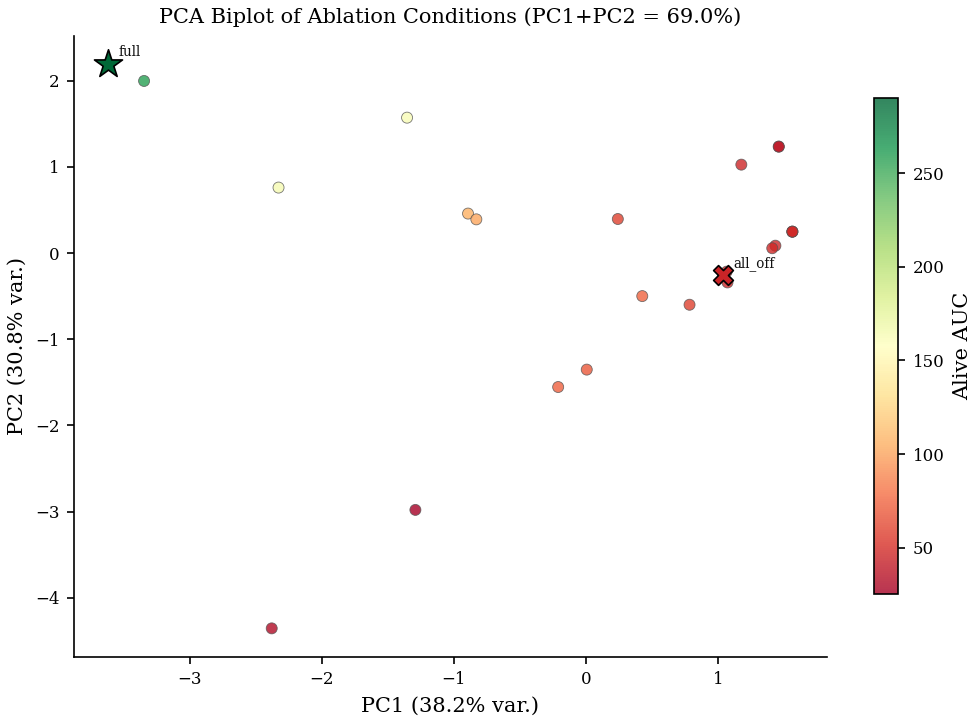
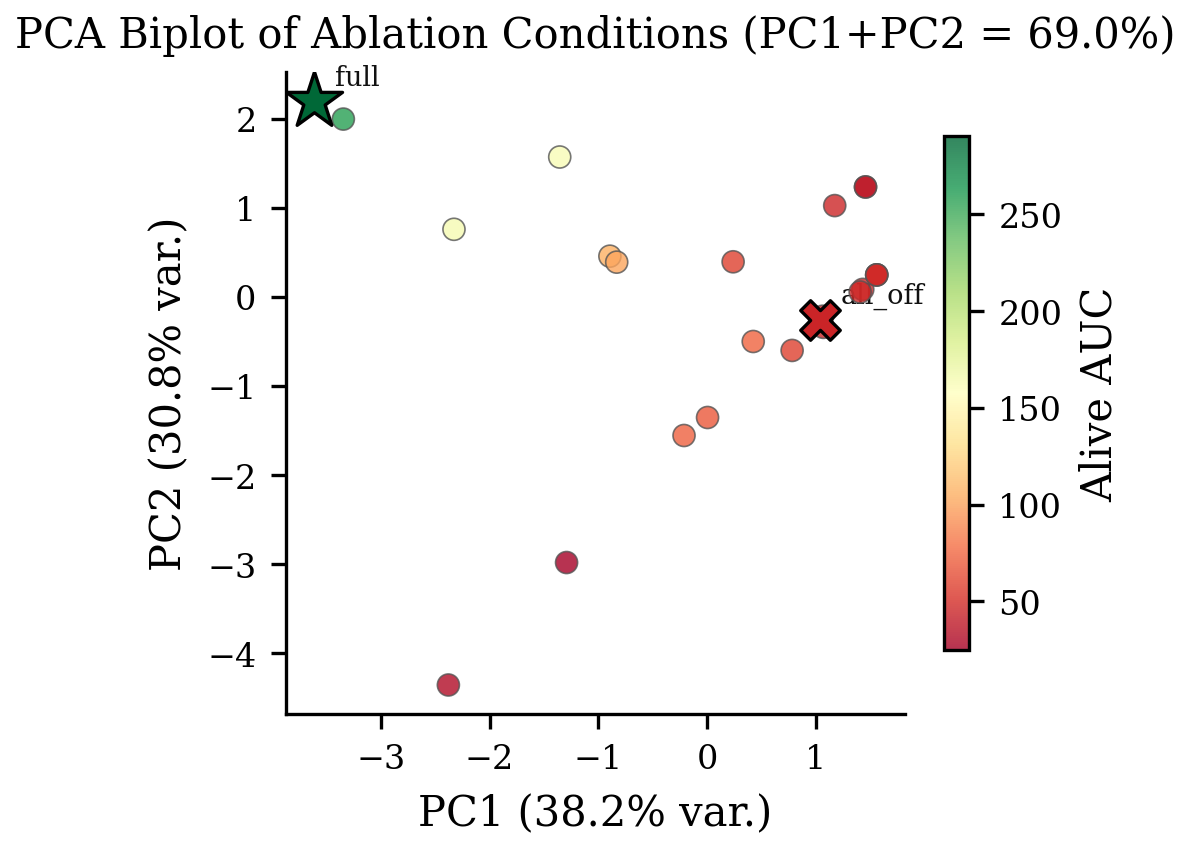
fix: resize figures for single-column layout and split combined figures
Figures 1-2: shrink from double-column (figure*) to single-column (figure),
reduce figsize to ~3.5in, scale fonts proportionally.
Figure 2: move legend from upper right to upper left to avoid line overlap.
Figures 4-5: split each two-subfigure figure into dedicated single figures
(now Figs 4-8), increase DPI from 150 to 300 for readability.
Update all cross-references.

diff --git a/paper/main.tex b/paper/main.tex
@@ -183,15 +183,15 @@ units) containing a diffusing resource field.
 The inner layer consists of 10--50 \emph{organisms}, each composed of 10--50
 \emph{swarm agents} that collectively maintain the organism's spatial boundary.
 
-\begin{figure*}[t]
+\begin{figure}[t]
 \centering
-\includegraphics[width=\textwidth]{figures/fig_architecture.pdf}
+\includegraphics[width=\columnwidth]{figures/fig_architecture.pdf}
 \caption{Two-layer architecture. Each organism comprises swarm agents maintaining
 a spatial boundary, a neural-network controller, a graph-based metabolic network,
 and a fixed 256-float genome organized into seven segments encoding all criteria. Organisms inhabit a
 continuous toroidal environment with a diffusing resource field.}
 \label{fig:arch}
-\end{figure*}
+\end{figure}
 
 \subsection{Seven Criteria}
 
@@ -319,9 +319,9 @@ Reproduction-ablated organisms live longer individually (median 751 vs.\ 242
 steps) despite population collapse, confirming absent replacement rather than
 individual fragility (per-seed distributions in §S3).
 
-\begin{figure*}[t]
+\begin{figure}[t]
 \centering
-\includegraphics[width=\textwidth]{figures/fig_timeseries.pdf}
+\includegraphics[width=\columnwidth]{figures/fig_timeseries.pdf}
 \caption{Population dynamics under criterion ablation. Lines show mean alive
 count across 30 seeds (100--129); shaded bands show $\pm$1 SEM. Normal
 baseline (thick black) stabilizes near 349 organisms by step~1900. Removing reproduction,
@@ -329,7 +329,7 @@ response, or metabolism causes $>$86\% population collapse. Evolution ablation
 shows a modest 8\% decline (Cliff's $\delta$=0.39), consistent with optimization
 rather than short-term survival necessity.}
 \label{fig:timeseries}
-\end{figure*}
+\end{figure}
 
 \paragraph{Quantitative coupling evidence.}
 Granger-style lagged F-tests (lags 1--5, within-seed Holm correction) show
@@ -450,7 +450,7 @@ evolution (0.374) and growth (0.492) rank lowest (Figure~\ref{fig:crit_stability
 No criterion clears 0.60 under LASSO (maximum: metabolism=0.53).
 PCA requires 4 components for 93\% variance (PC1=38\%, PC2=31\%);
 the biplot shows full-criteria and all-off at opposite poles
-(Figure~\ref{fig:pca_reduction}).
+(Figures~\ref{fig:pca_biplot} and~\ref{fig:crit_pareto}).
 Forward Pareto selection yields all-negative $R^2$ values, a null result at this
 sample size (Cohen's $d$=10.68 validates the sweep design, but 24 training
 conditions are insufficient for predictive modeling).
@@ -459,33 +459,43 @@ Enet stability rankings serve only as exploratory prioritization for Phase~2.
 \begin{figure}[t]
 \centering
 \IfFileExists{../figures/reduction/fig_criterion_stability.png}%
-  {\includegraphics[width=0.48\columnwidth]{../figures/reduction/fig_criterion_stability.png}}%
-  {\fbox{\parbox{0.45\columnwidth}{\centering\vspace{2em}[fig\_crit\_stability]\vspace{2em}}}}%
-\hfill%
-\IfFileExists{../figures/reduction/fig_stability_heatmap.png}%
-  {\includegraphics[width=0.48\columnwidth]{../figures/reduction/fig_stability_heatmap.png}}%
-  {\fbox{\parbox{0.45\columnwidth}{\centering\vspace{2em}[fig\_stab\_heatmap]\vspace{2em}}}}
-\caption{Criterion stability (left; dashed=0.60; Enet ranks metabolism$>$response$>$homeostasis,
-evolution lowest) and stability heatmap (right; 7 criteria $\times$ 7 metrics, Enet).}
+  {\includegraphics[width=\columnwidth]{../figures/reduction/fig_criterion_stability.png}}%
+  {\fbox{\parbox{0.9\columnwidth}{\centering\vspace{2em}[fig\_crit\_stability]\vspace{2em}}}}
+\caption{Criterion stability (500-bootstrap Enet vs LASSO; dashed line = 0.60
+threshold). Enet ranks metabolism$>$response$>$homeostasis; evolution lowest.}
 \label{fig:crit_stability}
 \end{figure}
 
 \begin{figure}[t]
 \centering
+\IfFileExists{../figures/reduction/fig_stability_heatmap.png}%
+  {\includegraphics[width=\columnwidth]{../figures/reduction/fig_stability_heatmap.png}}%
+  {\fbox{\parbox{0.9\columnwidth}{\centering\vspace{2em}[fig\_stab\_heatmap]\vspace{2em}}}}
+\caption{Enet stability heatmap (7 criteria $\times$ 7 performance metrics).
+Cells $\geq$0.60 are marked with dashed borders. Rows sorted by mean stability.}
+\label{fig:stab_heatmap}
+\end{figure}
+
+\begin{figure}[t]
+\centering
 \IfFileExists{../figures/reduction/fig_pca_biplot.png}%
-  {\includegraphics[width=0.48\columnwidth]{../figures/reduction/fig_pca_biplot.png}}%
-  {\fbox{\parbox{0.45\columnwidth}{\centering\vspace{2em}[fig\_pca\_biplot]\vspace{2em}}}}%
-\hfill%
+  {\includegraphics[width=\columnwidth]{../figures/reduction/fig_pca_biplot.png}}%
+  {\fbox{\parbox{0.9\columnwidth}{\centering\vspace{2em}[fig\_pca\_biplot]\vspace{2em}}}}
+\caption{PCA biplot (PC1=38\%, PC2=31\%) of ablation conditions. Full-criteria
+and all-off sit at opposite poles; pairwise ablations cluster near all-off,
+reflecting multiplicative criterion interdependence.}
+\label{fig:pca_biplot}
+\end{figure}
+
+\begin{figure}[t]
+\centering
 \IfFileExists{../figures/reduction/fig_criterion_pareto.png}%
-  {\includegraphics[width=0.48\columnwidth]{../figures/reduction/fig_criterion_pareto.png}}%
-  {\fbox{\parbox{0.45\columnwidth}{\centering\vspace{2em}[fig\_crit\_pareto]\vspace{2em}}}}
-\caption{Left: PCA biplot (PC1=38\%, PC2=31\%) shows full-criteria and all-off
-at opposite poles; pairwise ablations cluster near all-off, reflecting
-multiplicative criterion interdependence.
-Right: criterion Pareto curve (note: all $R^2<0$, indicating insufficient
-statistical power for predictive modeling; underpowered); Enet stability
-rankings serve as the primary directional evidence.}
-\label{fig:pca_reduction}
+  {\includegraphics[width=\columnwidth]{../figures/reduction/fig_criterion_pareto.png}}%
+  {\fbox{\parbox{0.9\columnwidth}{\centering\vspace{2em}[fig\_crit\_pareto]\vspace{2em}}}}
+\caption{Criterion Pareto curve (Ridge, $k$=1..7). All $R^2<0$, indicating
+insufficient statistical power for predictive modeling at $n$=24 training
+conditions. Enet stability rankings serve as the primary directional evidence.}
+\label{fig:crit_pareto}
 \end{figure}
 
 % ============================================================================

diff --git a/scripts/figures/fig_architecture.py b/scripts/figures/fig_architecture.py
@@ -21,7 +21,7 @@ def _draw_environment(ax: plt.Axes) -> None:
         "Environment (Toroidal 2D, 100$\\times$100)",
         ha="center",
         va="center",
-        fontsize=10,
+        fontsize=6,
         fontweight="bold",
         color="#333333",
     )
@@ -33,7 +33,7 @@ def _draw_environment(ax: plt.Axes) -> None:
         "Resource Field",
         ha="left",
         va="center",
-        fontsize=7,
+        fontsize=4.5,
         fontstyle="italic",
         color="#666666",
     )
@@ -56,7 +56,7 @@ def _draw_organism_box(ax: plt.Axes, ox: float, oy: float) -> None:
         "Organism (10-50 per environment)",
         ha="center",
         va="center",
-        fontsize=8,
+        fontsize=5,
         fontweight="bold",
         color="#0072B2",
     )
@@ -112,7 +112,7 @@ def _draw_organism_components(ax: plt.Axes, ox: float, oy: float) -> None:
             label,
             ha="center",
             va="center",
-            fontsize=6,
+            fontsize=3.5,
             color="#333333",
         )
 
@@ -155,7 +155,7 @@ def _draw_internal_state_label(ax: plt.Axes, ox: float, oy: float) -> None:
         "Internal State Vector (homeostatic regulation)",
         ha="center",
         va="center",
-        fontsize=6,
+        fontsize=3.5,
         fontstyle="italic",
         color="#666666",
     )
@@ -178,7 +178,7 @@ def _draw_criteria_sidebar(ax: plt.Axes, sidebar_x: float) -> None:
         sidebar_x + 1.6,
         4.65,
         "7 Criteria",
-        fontsize=8,
+        fontsize=5,
         fontweight="bold",
         ha="center",
         color="#333333",
@@ -195,13 +195,13 @@ def _draw_criteria_sidebar(ax: plt.Axes, sidebar_x: float) -> None:
     ]
     for j, (label, color) in enumerate(criteria_items):
         yy = 4.25 - j * 0.47
-        ax.plot(sidebar_x + 0.3, yy, "s", color=color, markersize=5)
-        ax.text(sidebar_x + 0.55, yy, label, fontsize=6.5, color="#333333", va="center")
+        ax.plot(sidebar_x + 0.3, yy, "s", color=color, markersize=3)
+        ax.text(sidebar_x + 0.55, yy, label, fontsize=4, color="#333333", va="center")
 
 
 def generate_architecture() -> None:
     """Figure 1: Architecture diagram showing two-layer hierarchy."""
-    fig, ax = plt.subplots(figsize=(7, 4.0))
+    fig, ax = plt.subplots(figsize=(3.5, 2.0))
     ax.set_xlim(0, 10)
     ax.set_ylim(0, 6.5)
     ax.set_aspect("equal")

diff --git a/scripts/figures/fig_timeseries.py b/scripts/figures/fig_timeseries.py
@@ -18,7 +18,7 @@ def generate_timeseries(data: list[dict]) -> None:
         key = (row["condition"], int(row["step"]))
         groups[key].append(row["alive_count"])
 
-    fig, ax = plt.subplots(figsize=(7, 3.2))
+    fig, ax = plt.subplots(figsize=(3.5, 2.4))
 
     for idx, condition in enumerate(CONDITION_ORDER):
         steps = sorted({s for (c, s) in groups if c == condition})
@@ -33,7 +33,7 @@ def generate_timeseries(data: list[dict]) -> None:
         means = np.array(means)
         sems = np.array(sems)
         color = COLORS[condition]
-        lw = 2.0 if condition == "normal" else 1.2
+        lw = 1.5 if condition == "normal" else 0.8
         ls = "-" if condition == "normal" else _LINESTYLES[idx % len(_LINESTYLES)]
         marker = None if condition == "normal" else _MARKERS[idx % len(_MARKERS)]
         # Place markers every 10th data point for readability
@@ -46,7 +46,7 @@ def generate_timeseries(data: list[dict]) -> None:
             linestyle=ls,
             marker=marker,
             markevery=markevery,
-            markersize=4,
+            markersize=3,
             label=LABELS[condition],
             zorder=10 if condition == "normal" else 5,
         )
@@ -56,7 +56,7 @@ def generate_timeseries(data: list[dict]) -> None:
     ax.set_ylabel("Mean Alive Count ($n$=30)")
     ax.set_xlim(0, 2000)
     ax.set_ylim(bottom=0)
-    ax.legend(loc="upper right", ncol=2, framealpha=0.9, edgecolor="0.8")
+    ax.legend(loc="upper left", ncol=2, framealpha=0.9, edgecolor="0.8", fontsize=5)
     ax.spines["top"].set_visible(False)
     ax.spines["right"].set_visible(False)
 

diff --git a/scripts/plot_reduction_figures.py b/scripts/plot_reduction_figures.py
@@ -414,7 +414,7 @@ def _load_json(path: Path) -> dict:
         return json.load(f)
 
 
-def _save(fig: plt.Figure, path: Path, dpi: int = 150) -> None:
+def _save(fig: plt.Figure, path: Path, dpi: int = 300) -> None:
     fig.tight_layout()
     fig.savefig(path, dpi=dpi)
     plt.close(fig)
@@ -439,23 +439,23 @@ def main() -> None:
 
     FIG_DIR.mkdir(parents=True, exist_ok=True)
 
-    fig, ax = plt.subplots(figsize=(7, 3.5))
+    fig, ax = plt.subplots(figsize=(3.5, 2.5))
     plot_criterion_stability(ax, crit_data)
     _save(fig, FIG_DIR / "fig_criterion_stability.png")
 
-    fig, ax = plt.subplots(figsize=(7, 3.8))
+    fig, ax = plt.subplots(figsize=(3.5, 2.8))
     plot_criterion_pareto(ax, crit_data)
     _save(fig, FIG_DIR / "fig_criterion_pareto.png")
 
-    fig, ax = plt.subplots(figsize=(7, 3.8))
+    fig, ax = plt.subplots(figsize=(3.5, 2.8))
     plot_surrogate_pareto(ax, surr_data)
     _save(fig, FIG_DIR / "fig_surrogate_pareto.png")
 
-    fig, ax = plt.subplots(figsize=(7, 5))
+    fig, ax = plt.subplots(figsize=(3.5, 3.0))
     plot_pca_biplot(ax, crit_data)
     _save(fig, FIG_DIR / "fig_pca_biplot.png")
 
-    fig, ax = plt.subplots(figsize=(9, 4.5))
+    fig, ax = plt.subplots(figsize=(3.5, 2.8))
     plot_stability_heatmap(ax, crit_data)
     _save(fig, FIG_DIR / "fig_stability_heatmap.png")
 
